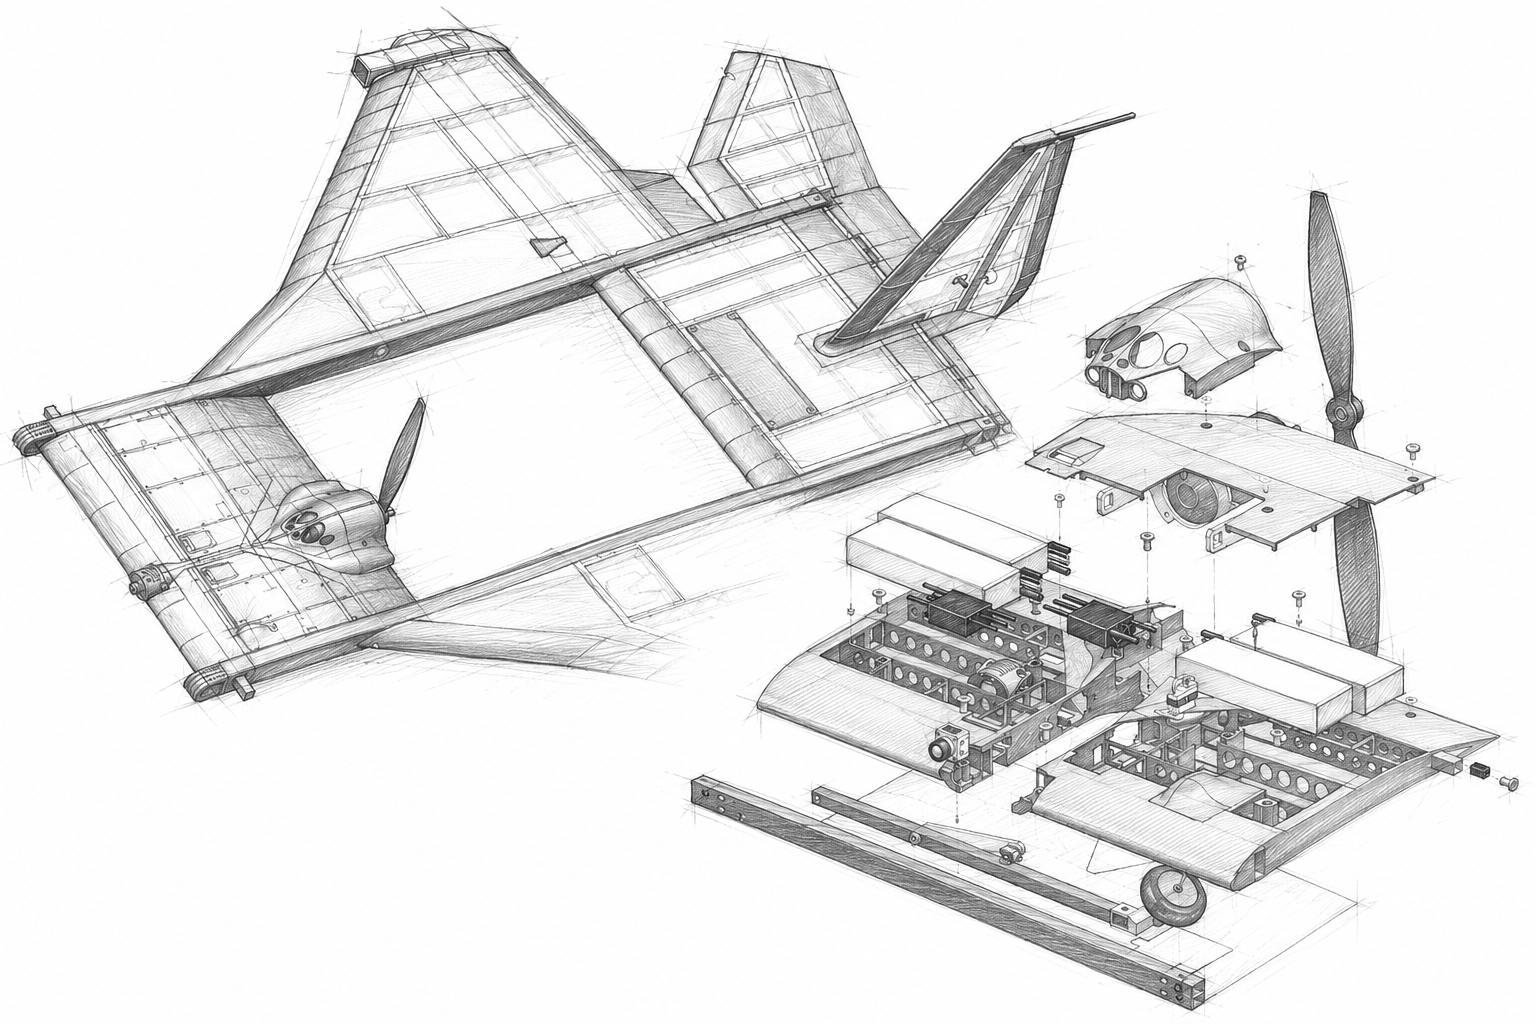
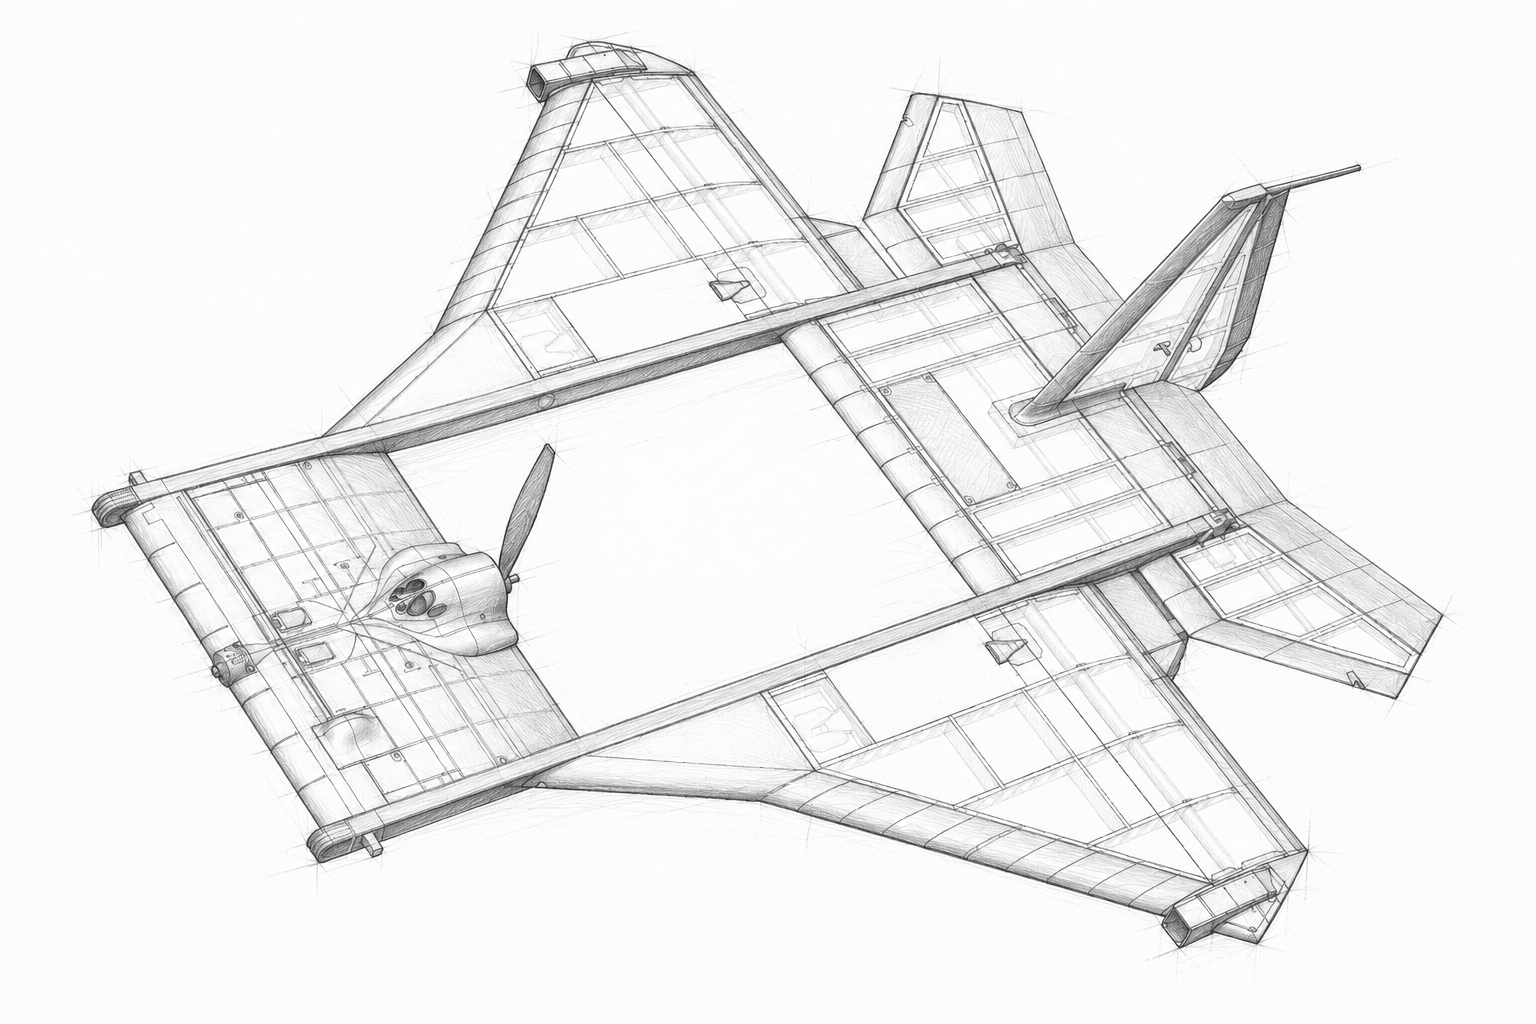
updated drone project page

Changed region(s): [[0.0, 0.0, 1.0, 1.0]]

diff --git a/projects/drone.html b/projects/drone.html
@@ -124,12 +124,13 @@
 
                 <figure class="project-content-image">
 
-                    <div class="image-placeholder">
-                        <span>Overview image</span>
-                    </div>
+                    <img
+                        src="../images/mobula-x.png"
+                        alt="Mobula X drone"
+                    >
 
                     <figcaption>
-                        The mobula 3.0 vertical take-off unmanned aerial vehicle.
+                        Conventional takeoff Mobula X drone prototype
                     </figcaption>
 
                 </figure>
@@ -205,12 +206,14 @@
 
                 <figure class="project-content-image">
 
-                    <div class="image-placeholder">
-                        <span>Challenges image</span>
-                    </div>
+                    <img
+                        src="../images/drone-sketch.png"
+                        alt="complete drone assembly with motor plate and nose landing gear"
+                        loading="lazy"
+                    >
 
                     <figcaption>
-                        Concept development, component packaging or landing-gear testing.
+                        Non-photorealistic line rendering of the the complete Mobula 3.0 vertical takeoff prototype drone.
                     </figcaption>
 
                 </figure>
@@ -311,7 +314,7 @@
                 <figure class="project-content-image">
 
                     <img
-                        src="../images/drone-sketch.png"
+                        src="../images/drone-motor-plate.png"
                         alt="Non-photorealistic line rendering of the mobula 3.0 motor plate and nose landing gear"
                         loading="lazy"
                     >
